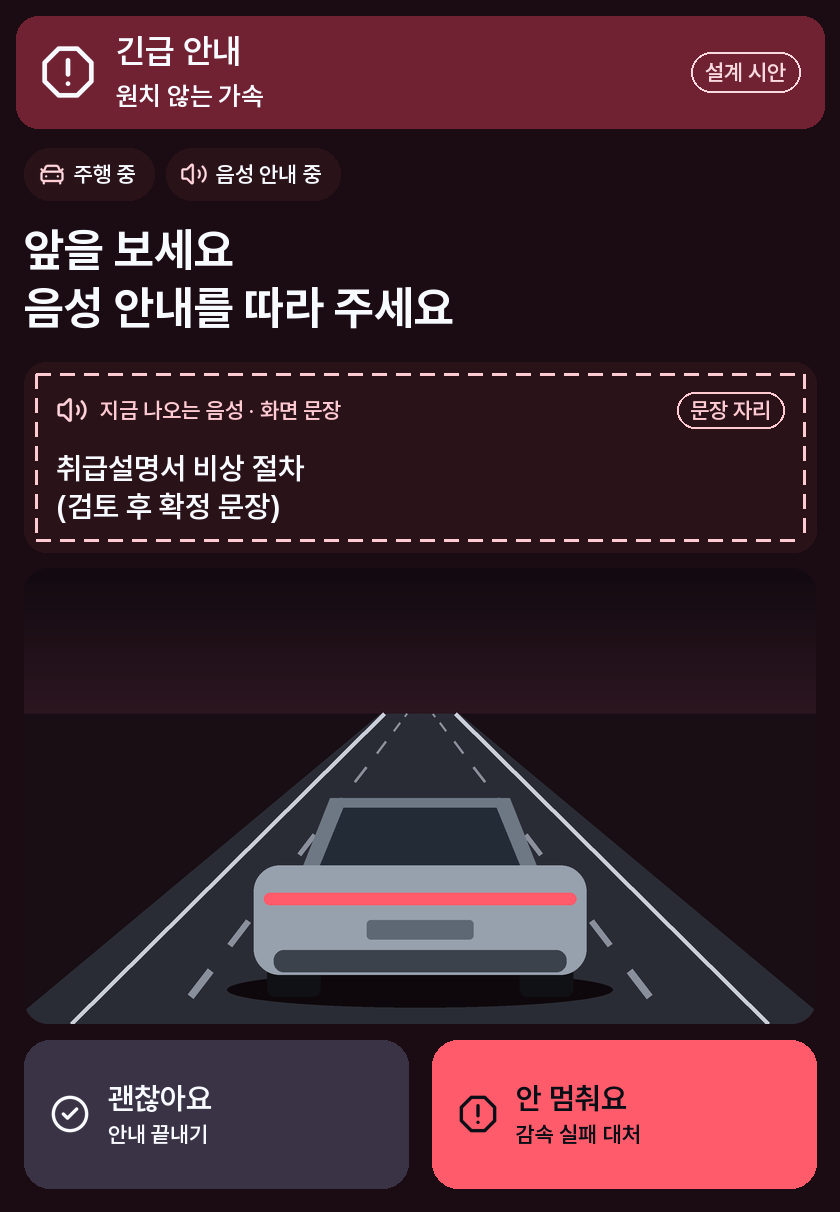
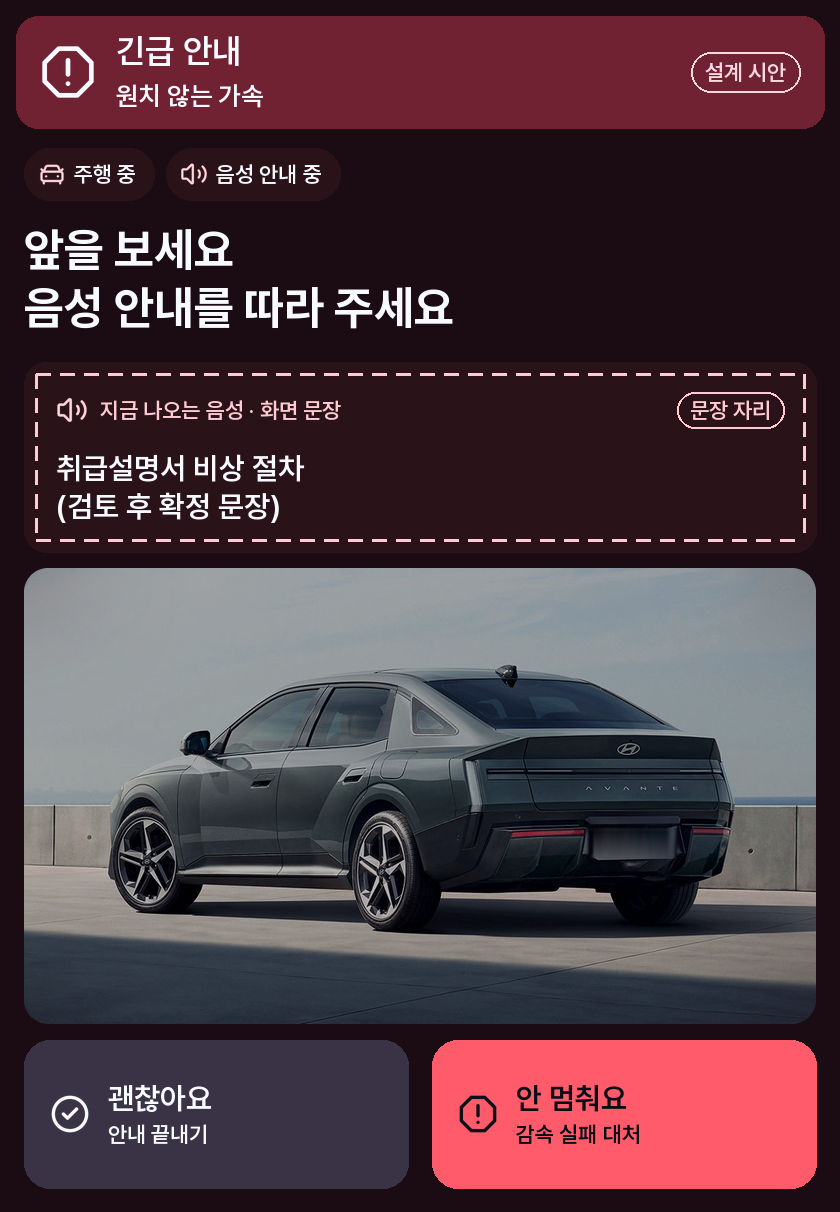
긴급 안내 화면 그림을 디 올 뉴 아반떼 실사 뒷모습 사진으로 교체
공식 보도자료(2026.8.5) 사진에서 보도용 번호판을 지워 assets/avante-rear.jpg로 두고,
p-emergency·p-stopping·ui-guidance·ui-stopping과 합성 그림을 다시 만들었습니다.
감속 실패 화면의 비상등 덧그림은 뺐습니다.

Claude-Session: https://claude.ai/code/session_01Dyt4TM2r9Xf3eEYkWnsWkp

Changed region(s): [[0.031, 0.4579, 0.9905, 0.8548], [0.0929, 0.8243, 0.1238, 0.8548]]

diff --git a/hyundai_app_market/output/submission/build_ui_v4.py b/hyundai_app_market/output/submission/build_ui_v4.py
@@ -18,7 +18,7 @@
 from __future__ import annotations
 import json, math, sys
 from pathlib import Path
-from PIL import Image, ImageDraw, ImageFont
+from PIL import Image, ImageDraw, ImageEnhance, ImageFilter, ImageFont
 
 R = Path(__file__).resolve().parent
 A = R / 'assets'; I = A / 'icons'
@@ -650,35 +650,26 @@ def cabin_row(s, x0, cy, x1, n=22):
         x = x0 + j * w; s.icon(ic, x, cy - 15, 30, MINT); s.txt_vc(x + 40, cy, t, n, FG, maxw=w - 44)
 
 
+_rear = None
+
+
 def road_scene(w, h, hazard=False):
-    """주행 중 긴급 화면의 정지 그림: 도로와 차 뒷모습만, 손·발 동작 화살표 없음."""
-    Z = 3; W, H = w * Z, h * Z; im = Image.new('RGB', (W, H), '#1A0F15'); d = ImageDraw.Draw(im)
-    hz = int(H * 0.32)
-    for y in range(hz):
-        d.line([(0, y), (W, y)], fill=mix('#120A10', '#2C1620', y / hz))
-    d.rectangle((0, hz, W, H), fill='#180E14'); vx = W / 2
-    d.polygon([(vx - W * .05, hz), (vx + W * .05, hz), (W * 1.02, H), (-W * .02, H)], fill='#2A2C35')
-    for sx, ex in ((vx - W * .045, W * .06), (vx + W * .045, W * .94)):
-        d.line([(sx, hz), (ex, H)], fill='#C9CED8', width=4 * Z)
-    for lane in (-1, 1):
-        for k in range(9):
-            t0 = (k / 9) ** 1.6; t1 = ((k + .5) / 9) ** 1.6
-            p = lambda t: (vx + lane * (W * .016 + t * W * .30), hz + t * (H - hz))
-            d.line([p(t0), p(t1)], fill='#8A8F9C', width=max(2, int((2 + 6 * t1) * Z)))
-    cw, ch = W * .42, H * .30; cx, cy = W * .5, H * .79
-    d.ellipse((cx - cw * .58, cy + ch * .32, cx + cw * .58, cy + ch * .58), fill='#0E080C')
-    d.rounded_rectangle((cx - cw * .46, cy + ch * .25, cx - cw * .30, cy + ch * .50), radius=8 * Z, fill='#101114')
-    d.rounded_rectangle((cx + cw * .30, cy + ch * .25, cx + cw * .46, cy + ch * .50), radius=8 * Z, fill='#101114')
-    d.polygon([(cx - cw * .36, cy - ch * .40), (cx + cw * .36, cy - ch * .40), (cx + cw * .27, cy - ch * .95), (cx - cw * .27, cy - ch * .95)], fill='#6E7884')
-    d.polygon([(cx - cw * .30, cy - ch * .46), (cx + cw * .30, cy - ch * .46), (cx + cw * .23, cy - ch * .88), (cx - cw * .23, cy - ch * .88)], fill='#232B36')
-    d.rounded_rectangle((cx - cw * .5, cy - ch * .46, cx + cw * .5, cy + ch * .34), radius=26 * Z, fill='#97A1AD')
-    d.rounded_rectangle((cx - cw * .47, cy - ch * .26, cx + cw * .47, cy - ch * .17), radius=6 * Z, fill='#FF5B6B')
-    d.rounded_rectangle((cx - cw * .16, cy - ch * .06, cx + cw * .16, cy + ch * .08), radius=4 * Z, fill='#5E6874')
-    d.rounded_rectangle((cx - cw * .44, cy + ch * .16, cx + cw * .44, cy + ch * .32), radius=10 * Z, fill='#3B424C')
-    if hazard:
-        for sx in (-1, 1):
-            x = cx + sx * cw * .43
-            d.rounded_rectangle((x - cw * .06, cy - ch * .31, x + cw * .06, cy - ch * .12), radius=6 * Z, fill='#FFB020')
+    """주행 중 긴급 화면의 정지 그림: 디 올 뉴 아반떼 실사 뒷모습 1장(현대자동차 보도자료 2026.8.5 공식 사진).
+
+    손·발 동작 화살표, 비상등 같은 덧그림은 넣지 않습니다(앱이 차를 제어하는 것처럼 보이지 않게).
+    hazard 인자는 이전 호출과의 호환용이며 그림을 바꾸지 않습니다.
+    """
+    global _rear
+    if _rear is None:
+        _rear = Image.open(A / 'avante-rear.jpg').convert('RGB')
+    src = _rear; cx, cy = 1107, 690                      # 원본 1920×1080에서 차 중심
+    cw = 1150 if w / h > 1.5 else 1050; ch = cw * h / w
+    x0 = cx - cw / 2; y0 = max(0, min(src.height - ch, cy - ch / 2))
+    im = src.crop((int(x0), int(y0), int(x0 + cw), int(y0 + ch))).resize((w * 2, h * 2), LZ)
+    im = ImageEnhance.Brightness(im).enhance(0.74)       # 어두운 긴급 화면에서 눈부시지 않게
+    W, H = im.size; m = Image.new('L', im.size, 0)
+    ImageDraw.Draw(m).ellipse((-W * .15, -H * .25, W * 1.15, H * 1.25), fill=255)
+    im = Image.composite(im, Image.new('RGB', im.size, '#1A0F15'), m.filter(ImageFilter.GaussianBlur(W * .08)))
     return im.resize((w, h), LZ)
 
 

diff --git a/hyundai_app_market/docs/HANDOFF.md b/hyundai_app_market/docs/HANDOFF.md
@@ -108,6 +108,7 @@
 | 합성 그림 | `output/submission/assets/v4/composite/` | 세로 두 장 나란히(별첨용 pair-* 5장, 공식 양식용 form-portrait-1~3) |
 | v4 도표 4장 | `output/submission/assets/v4/diagrams/` | 메뉴 흐름, 시스템 구조, 긴급 안내 상태, 보호자 알림 상태 |
 | 대비 측정 | `output/submission/assets/v4/contrast-check.json` | v4.1 화면 33장, 최저 대비 4.55:1, 최소 글자 22px |
+| 긴급 화면 차량 사진 | `output/submission/assets/avante-rear.jpg` | 디 올 뉴 아반떼 실사 뒷모습. 현대자동차 보도자료(2026.8.5) 공식 사진에서 보도용 번호판을 지운 것. 주행 중 긴급 화면 4장(p-emergency, p-stopping, ui-guidance, ui-stopping)에 씀(사용자 요청). 홈 화면 앞모습은 `avante-cutout.png` |
 | 이전 승인 시안 | `output/submission/assets/final/` | v3 가로 10장. 이력으로 보존 |
 
 - 화면은 설계 시안이며 실제 구동 화면이 아닙니다. 경고등 기호 8개는 단순 선으로 새로 그렸고, 실제 도감은 대상 차량 취급설명서 기호와 대조해 확정해야 합니다.
